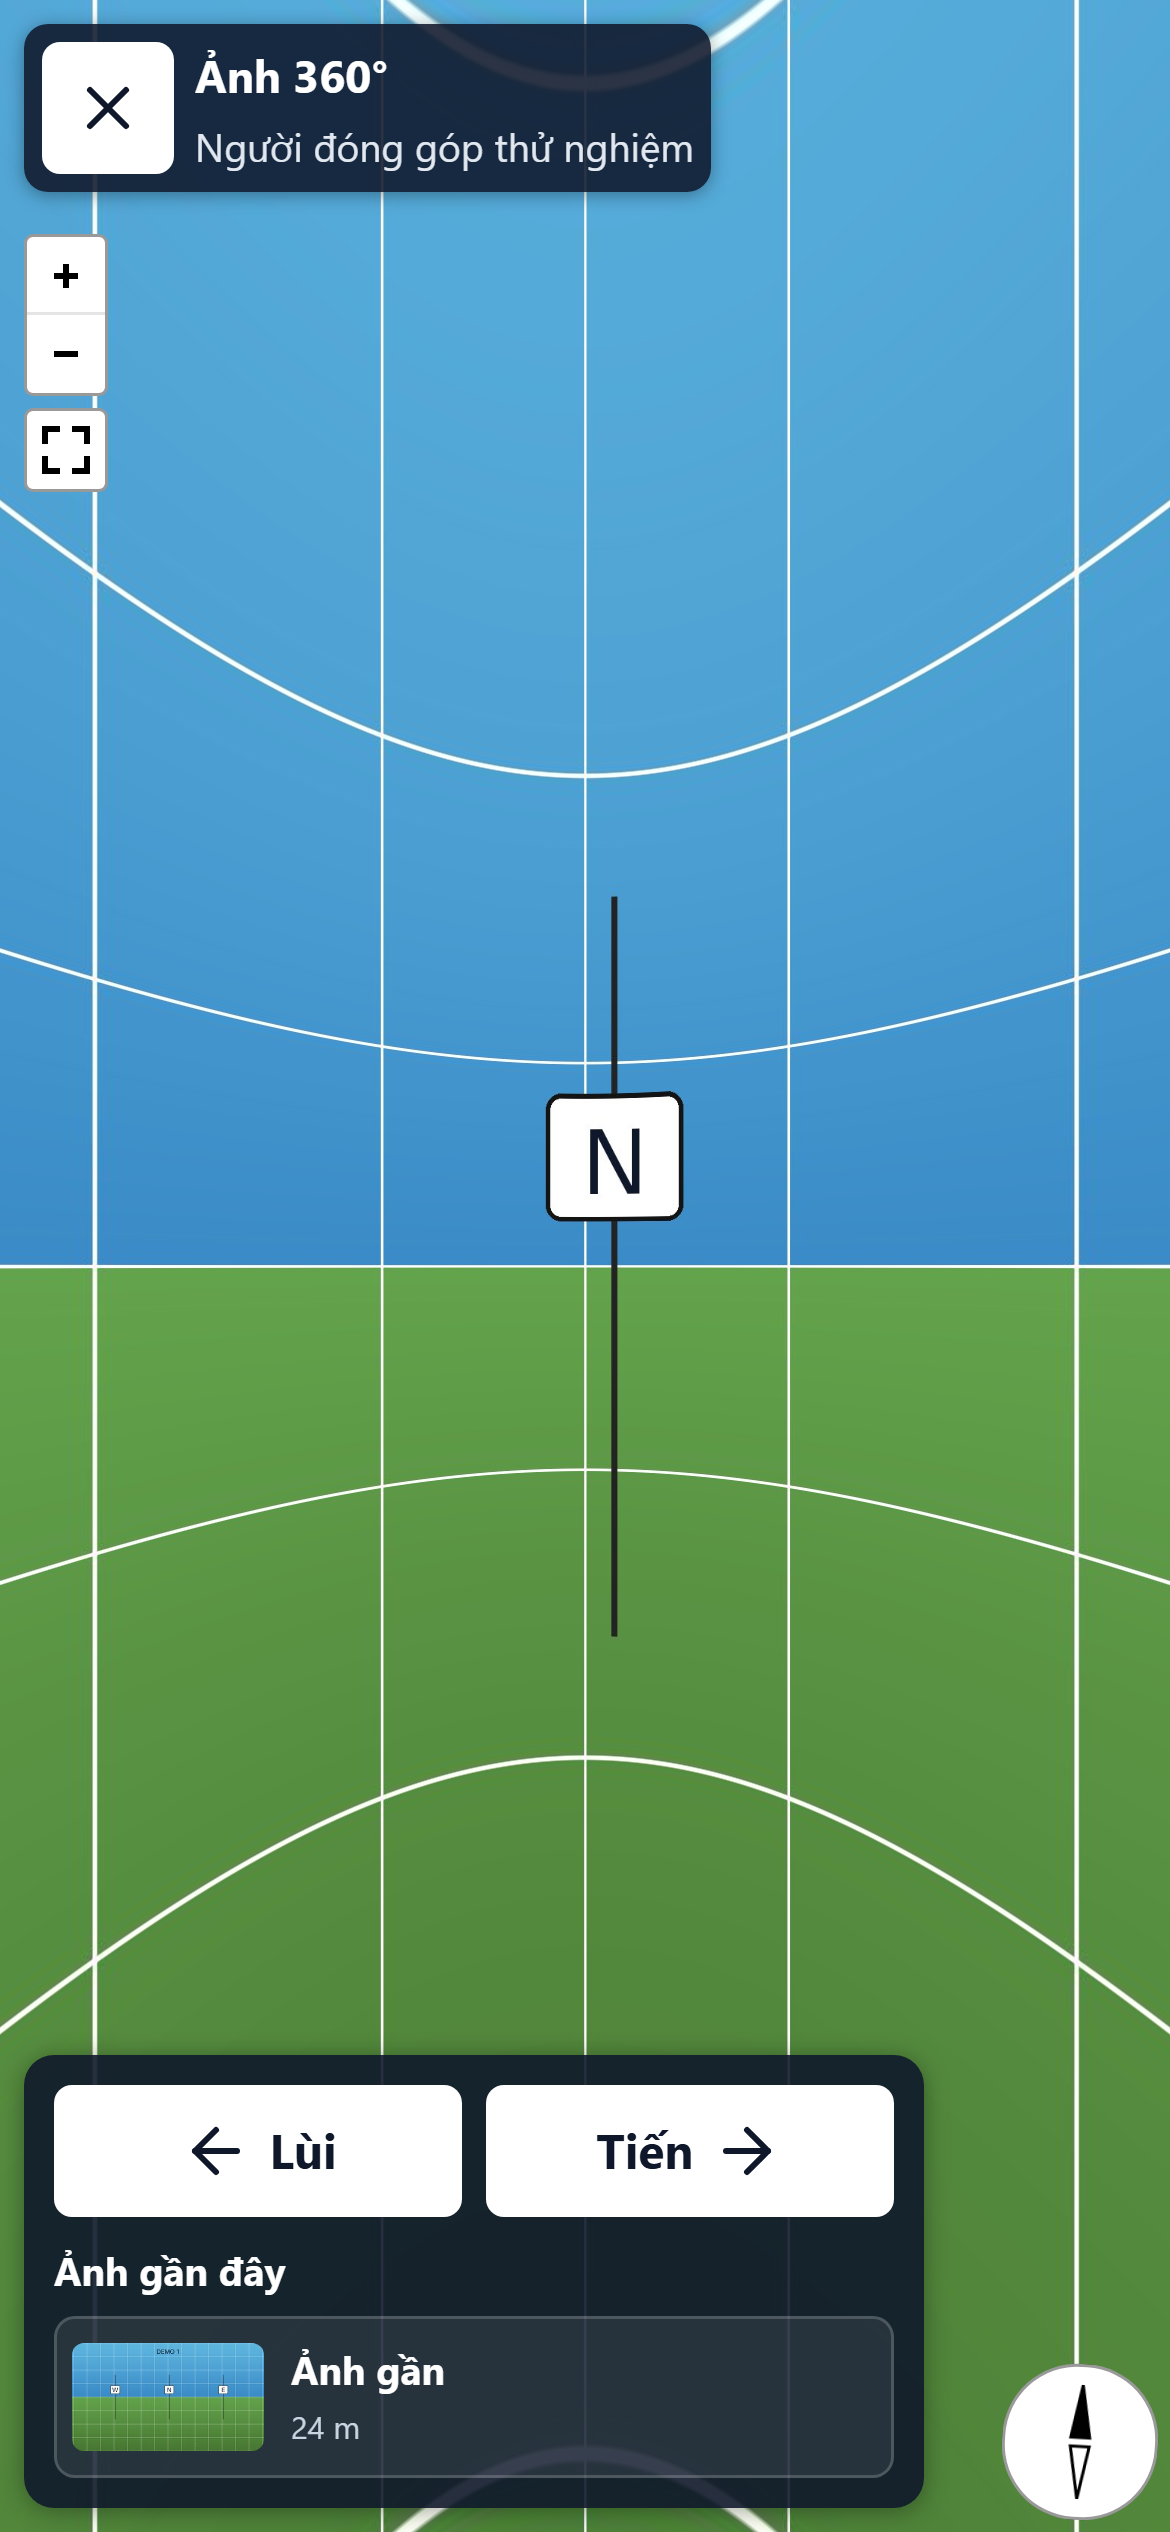
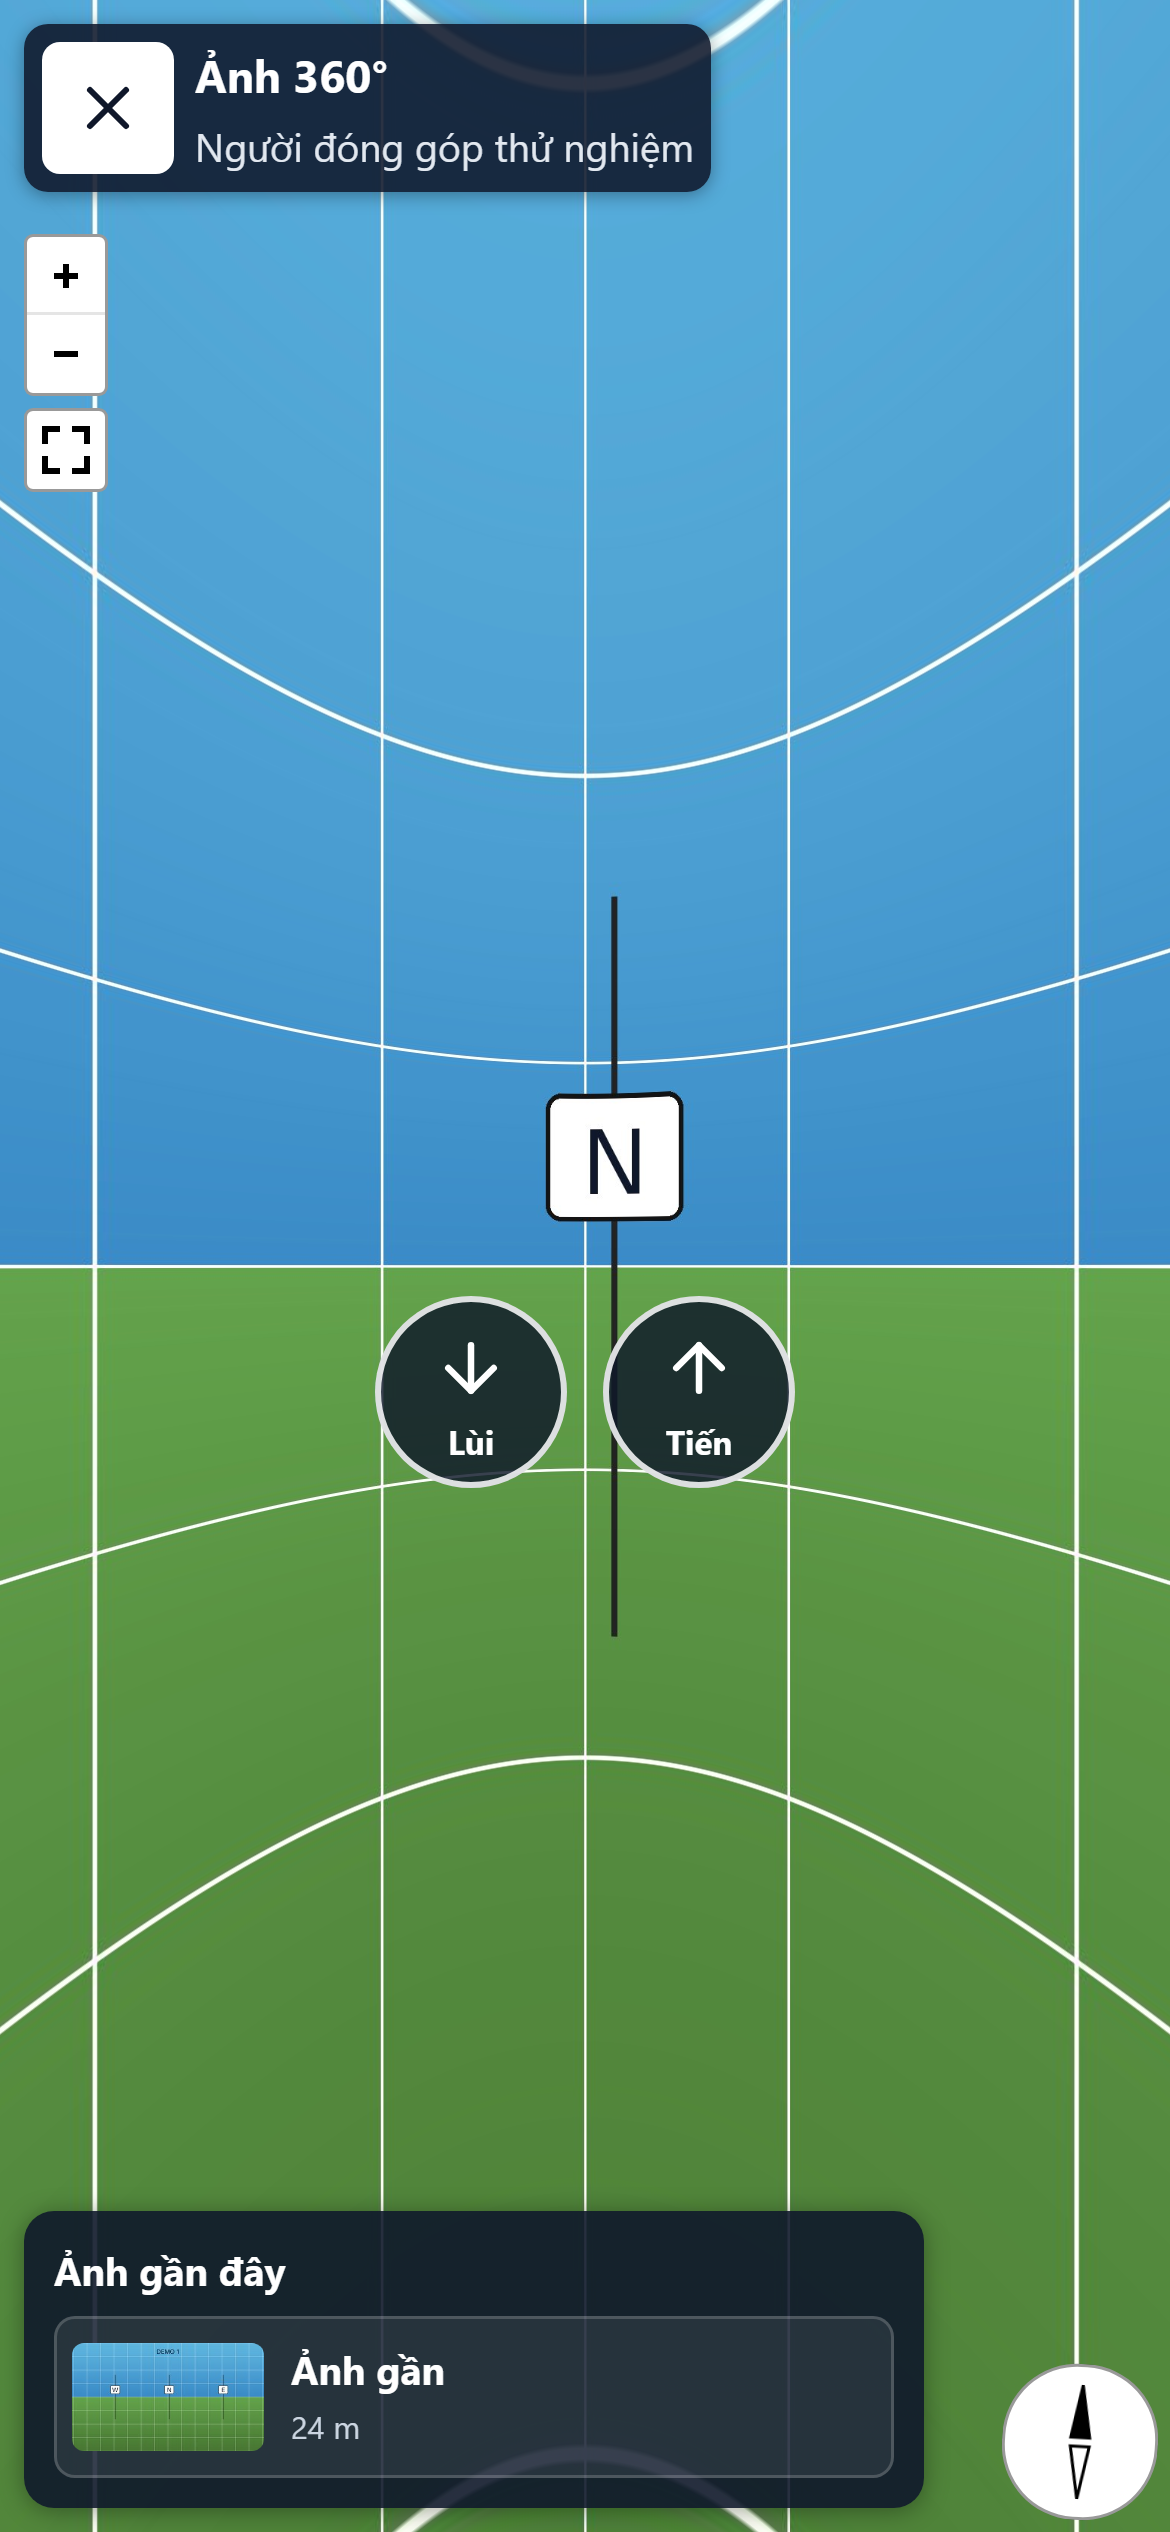
Agent Host changes for agents/implementing-m3-after-milestone-m2

Changed region(s): [[0.0, 0.8112, 0.8, 0.8736], [0.3077, 0.4992, 0.6769, 0.5928]]

diff --git a/frontend/src/pages/PhotoViewer.tsx b/frontend/src/pages/PhotoViewer.tsx
@@ -1,6 +1,6 @@
 import { useCallback, useMemo, useRef, useState } from "react";
 import { useQuery } from "@tanstack/react-query";
-import { ArrowLeft, ArrowRight, X } from "lucide-react";
+import { ArrowDown, ArrowUp, X } from "lucide-react";
 import { useLocation, useNavigate, useParams } from "react-router-dom";
 import {
   getPhotoNeighbors,
@@ -208,6 +208,42 @@ function PhotoViewerContent({ photoId }: { photoId: string }) {
           {capturedAt && <time dateTime={photo.captured_at ?? undefined}>{capturedAt}</time>}
         </div>
       </header>
+      {neighbors && (
+        <nav className="viewer-navigation" aria-label="Điều hướng ảnh 360°">
+          <button
+            className="viewer-navigation-button"
+            type="button"
+            aria-label="Lùi tới ảnh phía sau"
+            disabled={!neighbors.backward}
+            onClick={() =>
+              neighbors.backward &&
+              navigateToPhoto(
+                neighbors.backward.id,
+                currentCompassBearing(),
+              )
+            }
+          >
+            <ArrowDown aria-hidden="true" />
+            <span>Lùi</span>
+          </button>
+          <button
+            className="viewer-navigation-button"
+            type="button"
+            aria-label="Tiến tới ảnh phía trước"
+            disabled={!neighbors.forward}
+            onClick={() =>
+              neighbors.forward &&
+              navigateToPhoto(
+                neighbors.forward.id,
+                currentCompassBearing(),
+              )
+            }
+          >
+            <ArrowUp aria-hidden="true" />
+            <span>Tiến</span>
+          </button>
+        </nav>
+      )}
       <section className="viewer-neighbors" aria-label="Ảnh lân cận">
         {neighborsQuery.isError && (
           <p className="neighbors-error" role="alert">
@@ -216,36 +252,6 @@ function PhotoViewerContent({ photoId }: { photoId: string }) {
         )}
         {neighbors ? (
           <>
-            <div className="neighbor-directions">
-              <button
-                type="button"
-                disabled={!neighbors.backward}
-                onClick={() =>
-                  neighbors.backward &&
-                  navigateToPhoto(
-                    neighbors.backward.id,
-                    currentCompassBearing(),
-                  )
-                }
-              >
-                <ArrowLeft aria-hidden="true" />
-                Lùi
-              </button>
-              <button
-                type="button"
-                disabled={!neighbors.forward}
-                onClick={() =>
-                  neighbors.forward &&
-                  navigateToPhoto(
-                    neighbors.forward.id,
-                    currentCompassBearing(),
-                  )
-                }
-              >
-                Tiến
-                <ArrowRight aria-hidden="true" />
-              </button>
-            </div>
             {neighbors.nearby.length > 0 && (
               <div className="nearby-list">
                 <strong>Ảnh gần đây</strong>

diff --git a/e2e/tests/viewer.spec.ts b/e2e/tests/viewer.spec.ts
@@ -79,6 +79,20 @@ test("opens a panorama from a mobile map and returns to the same view", async ({
   await page.screenshot({ path: testInfo.outputPath("m3-compass.png") });
   expect(externalRequests).toEqual([]);
 
+  const forward = page.getByRole("button", {
+    name: "Tiến tới ảnh phía trước",
+  });
+  const backward = page.getByRole("button", {
+    name: "Lùi tới ảnh phía sau",
+  });
+  await expect(forward).toBeVisible();
+  await expect(backward).toBeVisible();
+  const nextPhoto = (await forward.isEnabled()) ? forward : backward;
+  await expect(nextPhoto).toBeEnabled();
+  await nextPhoto.click();
+  await expect(page).not.toHaveURL(new RegExp(`/photo/${openedPhotoId}`));
+  await expect(compass).toBeVisible();
+
   const initialCompassTransform = await compass.getAttribute("style");
   const panoramaBounds = await page
     .locator(".pnlm-render-container")
@@ -106,13 +120,6 @@ test("opens a panorama from a mobile map and returns to the same view", async ({
 
   await page.locator(".pnlm-zoom-in").click();
   await page.locator(".pnlm-zoom-out").click();
-  const forward = page.getByRole("button", { name: "Tiến" });
-  const backward = page.getByRole("button", { name: "Lùi" });
-  const nextPhoto = (await forward.isEnabled()) ? forward : backward;
-  expect(await nextPhoto.isEnabled()).toBeTruthy();
-  await nextPhoto.click();
-  await expect(page).not.toHaveURL(new RegExp(`/photo/${openedPhotoId}`));
-  await expect(compass).toBeVisible();
   expect(externalRequests).toEqual([]);
 
   await page.getByRole("button", { name: "Đóng ảnh và quay lại bản đồ" }).click();

diff --git a/frontend/src/index.css b/frontend/src/index.css
@@ -148,7 +148,7 @@ body {
 }
 
 .viewer-close,
-.neighbor-directions button {
+.viewer-navigation-button {
   display: inline-flex;
   min-width: 44px;
   min-height: 44px;
@@ -162,6 +162,43 @@ body {
   font: inherit;
   font-weight: 700;
   cursor: pointer;
+}
+
+.viewer-navigation {
+  position: absolute;
+  z-index: 6;
+  top: 55%;
+  left: 50%;
+  display: flex;
+  gap: 12px;
+  transform: translate(-50%, -50%);
+}
+
+.viewer-navigation-button {
+  display: grid;
+  width: 64px;
+  height: 64px;
+  align-content: center;
+  justify-items: center;
+  border: 2px solid rgb(255 255 255 / 85%);
+  border-radius: 50%;
+  background: rgb(15 23 42 / 82%);
+  color: white;
+}
+
+.viewer-navigation-button svg {
+  width: 26px;
+  height: 26px;
+}
+
+.viewer-navigation-button span {
+  font-size: 11px;
+  line-height: 1;
+}
+
+.viewer-navigation-button:disabled {
+  opacity: 0.45;
+  cursor: not-allowed;
 }
 
 .viewer-close {
@@ -202,17 +239,6 @@ body {
   padding: 10px;
   background: rgb(15 23 42 / 90%);
   box-shadow: 0 1px 8px rgb(0 0 0 / 35%);
-}
-
-.neighbor-directions {
-  display: grid;
-  grid-template-columns: 1fr 1fr;
-  gap: 8px;
-}
-
-.neighbor-directions button:disabled {
-  opacity: 0.48;
-  cursor: not-allowed;
 }
 
 .nearby-list {

diff --git a/README.md b/README.md
@@ -88,5 +88,5 @@ proxy hoặc cache tile của bên thứ ba. Bản đồ vẫn hiển thị ghi 
 - M0 và M0_v1: đã xác nhận
 - M1: đã xác nhận; đã nhập OSM cho hai vùng Tân Châu và Phú Tân thuộc An Giang
 - M2: đã xác nhận; tile OSM 256px rõ nét, map tự fit vùng phục vụ theo viewport hẹp (trung vị 2,95 giây trên Fast 4G mô phỏng); nền vệ tinh chưa cấu hình và bị ẩn
-- M3: chờ xác nhận; viewer Pannellum đóng gói cục bộ, bốn ảnh kiểm thử giả đi dọc một đường. Ảnh equirectangular đặt hướng bắc tại yaw `-heading`; truyền `heading` vào `northOffset` đã được kiểm chứng bằng ảnh N/E/S/W ([ảnh kiểm chứng](docs/reports/m3-compass.png)). `make seed-demo` nạp ảnh mẫu, `make e2e` kiểm tra viewer trên viewport di động; xem `docs/milestones/M3.md`
+- M3: đang làm; viewer Pannellum có mũi tên nổi tiến/lùi theo hướng nhìn và danh sách ảnh gần. Dữ liệu hiện là bốn ảnh giả, chưa có ảnh chụp thực địa nên chưa tạo trải nghiệm Street View hoàn chỉnh. Ảnh equirectangular đặt hướng bắc tại yaw `-heading`; truyền `heading` vào `northOffset` đã được kiểm chứng bằng ảnh N/E/S/W ([ảnh kiểm chứng](docs/reports/m3-compass.png)). `make seed-demo` nạp ảnh thử, `make e2e` kiểm tra viewer trên viewport di động; xem `docs/milestones/M3.md`
 - M4–M7: chưa bắt đầu; xem `docs/milestones/`

diff --git a/docs/STATUS.md b/docs/STATUS.md
@@ -10,7 +10,7 @@ Agent cập nhật file này khi bắt đầu và khi kết thúc mỗi mileston
 | M0_v1 Khung dự án | 1 | Đã xác nhận | Đã kiểm tra build/run Compose, API/web/admin, pytest, Ruff và frontend build |
 | M1 OSM và vùng phục vụ | 1 | Đã xác nhận | Dữ liệu OSM An Giang cho Tân Châu và Phú Tân đã nhập (310 đường); schema và kiểm tra M1 đạt |
 | M2 API đọc và bản đồ | 1 | Đã xác nhận | Chủ dự án xác nhận M2; giữ tile OSM 256px, fit zoom theo viewport hẹp (trung vị tải 2,95 giây); ghi công OSM giữ nguyên, nhãn Leaflet ẩn; vệ tinh chưa cấu hình và bị ẩn |
-| M3 Viewer 360° | 2 | Chờ xác nhận | Pannellum cục bộ; 4 ảnh giả; Vitest, PostGIS và Playwright mobile đạt; la bàn N/E/S/W ([ảnh](./reports/m3-compass.png)) |
+| M3 Viewer 360° | 2 | Đang làm | Đã thêm mũi tên nổi tiến/lùi; viewer vẫn dùng 4 ảnh kiểm thử giả. Cần ảnh 360° thật kèm vị trí/hướng để đạt mục tiêu trải nghiệm Street View |
 | M4 Tài khoản, phân quyền | 2 | Chưa bắt đầu | |
 | M5a Upload ảnh (backend) | 2 | Chưa bắt đầu | |
 | M5b Admin duyệt ảnh (UI) | 3 | Chưa bắt đầu | |
